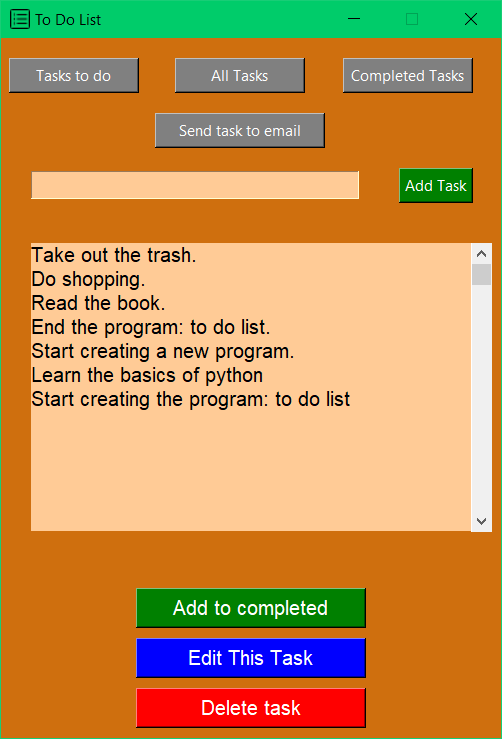
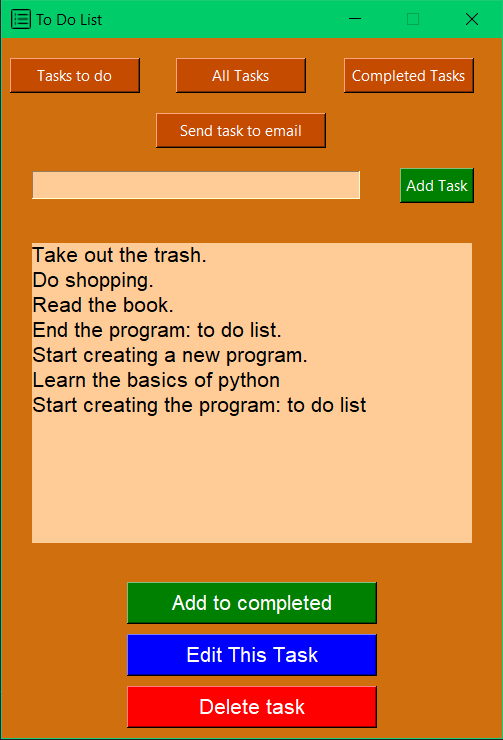
updated photos to README, add button for back to list, change colors

diff --git a/src/app/main.py b/src/app/main.py
@@ -18,9 +18,9 @@ sys.path.append(parent)
 
 
 # BackGround Color
-LIGHT_ORANGE = "#cf6f0e"
-MORE_LIGHT_ORANGE = '#ffcb96'
-# MORE_LIGHT_ORANGE = '#eb9a49'
+APP_BACKGROUND = "#cf6f0e"
+INPUTS_BACKGROUND = '#ffcb96'
+BUTTONS_BACKGROUND = '#c44b00'
 
 
 class ToDoList():
@@ -32,7 +32,7 @@ class ToDoList():
         self.window.resizable(0, 0)
         self.window.title("To Do List")
         self.window.iconbitmap(r'E:/Programing/List_To_Do/To_Do_List/images/icon/List.ico')
-        self.window.configure(background=LIGHT_ORANGE)
+        self.window.configure(background=APP_BACKGROUND)
 
         self.database = self.sqlite3_db()
 
@@ -116,14 +116,14 @@ class ToDoList():
 
     # Creates a frame for options buttons
     def create_options_frame(self):
-        frame = Frame(self.window, height=150, bg=LIGHT_ORANGE)
+        frame = Frame(self.window, height=150, bg=APP_BACKGROUND)
         frame.pack(fill='both', expand=False)
         return frame
 
 
     # Create button for email
     def create_email_button(self):
-        email_button = Button(self.options_frame, width=20, bg='grey', fg='white', text="Send task to email")
+        email_button = Button(self.options_frame, width=20, bg=BUTTONS_BACKGROUND, fg='white', text="Send task to email")
         email_button.grid(row=1, column=1)    
         email_button.bind("<Button>",  lambda e: self.email_window(True))
         return email_button
@@ -131,7 +131,7 @@ class ToDoList():
 
     # Create button for lists
     def create_lists_button(self):
-        lists_button = Button(self.options_frame, width=20, bg='grey', fg='white', text="Back to all tasks")
+        lists_button = Button(self.options_frame, width=20, bg='#a82200', fg='white', text="Back to tasks list")
         lists_button.grid(row=1, column=1)          
         lists_button.bind("<Button>", lambda e: self.email_window(False))
         return lists_button  
@@ -140,22 +140,22 @@ class ToDoList():
 
     # Create button to list of tasks to do 
     def create_button_for_list_of_tasks_to_do(self):
-        button = Button(self.options_frame, width=15, bg='grey', fg='white', text="Tasks to do", command=self.show_tasks_to_do_list)
-        button.grid(row=0, column=0, pady=20, sticky='')
+        button = Button(self.options_frame, width=15, bg=BUTTONS_BACKGROUND, fg='white', text="Tasks to do", command=self.show_tasks_to_do_list)
+        button.grid(row=0, column=0, padx=15, pady=20, sticky='')
         return button
 
 
     # Create button for all task to do list
     def create_button_for_all_task_list(self):
-        button = Button(self.options_frame, width=15, bg='grey', fg='white', text="All Tasks", command=self.show_all_tasks_list)
-        button.grid(row=0, column=1, pady=20, sticky='')
+        button = Button(self.options_frame, width=15, bg=BUTTONS_BACKGROUND, fg='white', text="All Tasks", command=self.show_all_tasks_list)
+        button.grid(row=0, column=1, padx=10, pady=20, sticky='')
         return button
     
 
     # Create button for completed tasks list
     def create_button_for_completed_tasks_list(self):
-        button = Button(self.options_frame, width=15, bg='grey', fg='white', text="Completed Tasks", command=self.show_completed_tasks_list)
-        button.grid(row=0, column=2, pady=20, padx=10, sticky='', columnspan=2)
+        button = Button(self.options_frame, width=15, bg=BUTTONS_BACKGROUND, fg='white', text="Completed Tasks", command=self.show_completed_tasks_list)
+        button.grid(row=0, column=2, pady=20, padx=20, sticky='', columnspan=2)
         return button
 
     
@@ -208,7 +208,7 @@ class ToDoList():
 
     # Create email frame
     def create_email_field(self):
-        frame = Frame(self.tasks_frame, width=450, height=450, bg=LIGHT_ORANGE)
+        frame = Frame(self.tasks_frame, width=450, height=450, bg=APP_BACKGROUND)
         frame.pack()
         return frame
 
@@ -221,6 +221,8 @@ class ToDoList():
         self.list_scrollbar.place_forget()
         self.email_button.grid_forget()
         self.edit_task_button.forget()
+        self.input_field.grid_forget()
+        self.button.grid_forget()
 
 
         # # Display email frame
@@ -230,12 +232,12 @@ class ToDoList():
             self.email_button = self.create_email_button()
             self.lists_button.grid_forget()
 
-            # Show "delete" button
+            # Show buttons lists and input
             self.delete_button.pack(side=BOTTOM, pady=10) 
-            # Show "edit task" button
             self.edit_task_button.pack(side=BOTTOM)
-            # Show "add to complete" button
             self.add_to_completed_button.pack(side=BOTTOM, pady=10)
+            self.input_field.grid(row=2, column=0, columnspan=3, padx=30, pady=20)
+            self.button.grid(row=2, column=3, sticky='', padx=10, pady=20)
 
         else:
             self.email_frame = self.create_email_field() 
@@ -243,25 +245,25 @@ class ToDoList():
 
 
         # Create labels
-        own_email_address_field = Label(self.email_frame, text="Your email address:", bg=LIGHT_ORANGE, fg='white',font='bold')
-        passwd_to_email_field = Label(self.email_frame, text="Password to email:", bg=LIGHT_ORANGE, fg='white',font='bold')
-        email_address_to_send_field = Label(self.email_frame, text ="Recipient Address:", bg=LIGHT_ORANGE, fg='white',font='bold')
-        message_to_send_field = Label(self.email_frame, text ="Message:", bg=LIGHT_ORANGE, fg='white', font='bold')
-        subject_field = Label(self.email_frame, text="Subject:", bg=LIGHT_ORANGE, fg='white', font='bold')
+        own_email_address_field = Label(self.email_frame, text="Your email address:", bg=APP_BACKGROUND, fg='white',font='bold')
+        passwd_to_email_field = Label(self.email_frame, text="Password to email:", bg=APP_BACKGROUND, fg='white',font='bold')
+        email_address_to_send_field = Label(self.email_frame, text ="Recipient Address:", bg=APP_BACKGROUND, fg='white',font='bold')
+        message_to_send_field = Label(self.email_frame, text ="Message:", bg=APP_BACKGROUND, fg='white', font='bold')
+        subject_field = Label(self.email_frame, text="Subject:", bg=APP_BACKGROUND, fg='white', font='bold')
 
         # Create entries
-        own_email_address_entry = Entry(self.email_frame, width=30, bg=MORE_LIGHT_ORANGE)
-        passwd_to_email_entry = Entry(self.email_frame, width=30, bg=MORE_LIGHT_ORANGE)
-        email_address_to_send_entry = Entry(self.email_frame, width=30, bg=MORE_LIGHT_ORANGE)
-        message_to_send_entry = Entry(self.email_frame, width=30, bg=MORE_LIGHT_ORANGE)
-        subject_entry = Entry(self.email_frame, width=30, bg=MORE_LIGHT_ORANGE)
+        own_email_address_entry = Entry(self.email_frame, width=30, bg=INPUTS_BACKGROUND)
+        passwd_to_email_entry = Entry(self.email_frame, width=30, bg=INPUTS_BACKGROUND)
+        email_address_to_send_entry = Entry(self.email_frame, width=30, bg=INPUTS_BACKGROUND)
+        message_to_send_entry = Entry(self.email_frame, width=30, bg=INPUTS_BACKGROUND)
+        subject_entry = Entry(self.email_frame, width=30, bg=INPUTS_BACKGROUND)
 
         # Create send email button
         send_email_button = Button(self.email_frame, width=18, bg='green', fg='white', font='bold', text='Send Email')
         
 
         # Create message label
-        chosen_field = Label(self.email_frame, bg=LIGHT_ORANGE, fg='white', font='bold', text="Which List You Want Send ?")
+        chosen_field = Label(self.email_frame, bg=APP_BACKGROUND, fg='white', font='bold', text="Which List You Want Send ?")
 
 
         # Place labels
@@ -285,9 +287,9 @@ class ToDoList():
         chosen_field1 = IntVar()
         chosen_field2 = IntVar()
         chosen_field3 = IntVar()
-        Radiobutton(self.email_frame, text="To Do",selectcolor=LIGHT_ORANGE, variable=chosen_field1, value=1, bg=LIGHT_ORANGE, fg='white').place(x=50, y=280)
-        Radiobutton(self.email_frame, text="All Tasks",selectcolor=LIGHT_ORANGE, variable=chosen_field2, value=2, bg=LIGHT_ORANGE, fg='white').place(x=150, y=280)
-        Radiobutton(self.email_frame, text="Completed",selectcolor=LIGHT_ORANGE, variable=chosen_field3, value=4, bg=LIGHT_ORANGE, fg='white').place(x=280, y=280)
+        Radiobutton(self.email_frame, text="To Do",selectcolor=APP_BACKGROUND, variable=chosen_field1, value=1, bg=APP_BACKGROUND, fg='white').place(x=50, y=280)
+        Radiobutton(self.email_frame, text="All Tasks",selectcolor=APP_BACKGROUND, variable=chosen_field2, value=2, bg=APP_BACKGROUND, fg='white').place(x=150, y=280)
+        Radiobutton(self.email_frame, text="Completed",selectcolor=APP_BACKGROUND, variable=chosen_field3, value=4, bg=APP_BACKGROUND, fg='white').place(x=280, y=280)
 
         # Place send email button
         send_email_button.place(x=110, y=360)
@@ -297,14 +299,14 @@ class ToDoList():
 
     # Creates a frame for tasks list
     def create_tasks_frame(self):
-        frame = Frame(self.window, width=50, height=550, bg=LIGHT_ORANGE)
+        frame = Frame(self.window, width=50, height=550, bg=APP_BACKGROUND)
         frame.pack(expand=True, fill="both")
         return frame
 
 
     # Create input field
     def create_input_field(self):
-        field = Entry(self.options_frame, width=27, bg=MORE_LIGHT_ORANGE, fg='black', font='Georgia 12')
+        field = Entry(self.options_frame, width=27, bg=INPUTS_BACKGROUND, fg='black', font='Georgia 12')
         field.grid(row=2, column=0, columnspan=3, padx=30, pady=20)
         return field
 
@@ -318,7 +320,7 @@ class ToDoList():
 
     # Create list of tasks
     def create_list_of_tasks(self):
-        list_of_tasks = Listbox(self.tasks_frame, fg="black", bg=MORE_LIGHT_ORANGE, width=52, height=12, bd=0, highlightthickness=0, selectbackground='#5e5555', activestyle='none', font=12)
+        list_of_tasks = Listbox(self.tasks_frame, fg="black", bg=INPUTS_BACKGROUND, width=52, height=12, bd=0, highlightthickness=0, selectbackground='#5e5555', activestyle='none', font=12)
         list_of_tasks.pack(pady=20, padx=30)
         return list_of_tasks
 
@@ -438,14 +440,16 @@ class ToDoList():
 
     # Create update frame
     def create_update_frame(self):
-        update_frame = Frame(self.tasks_frame, width=500, height=80, bg='blue')
+        update_frame = Frame(self.tasks_frame, width=500, height=80, bg=APP_BACKGROUND)
         update_frame.pack(expand=True, fill="both")
         return update_frame
 
 
+
+
+
     # Edit task
     def edit_task(self):
-
         try:
             # Get name of task to update from selected task
             task_to_update = self.list_of_tasks.selection_get()
@@ -476,7 +480,7 @@ class ToDoList():
         db_connector = sqlite3.connect('to_do_list.db')
 
         # Create cursor
-        cursor = db_connector.cursor()   
+        cursor = db_connector.cursor()
 
         # Update database task in table 'task to do'
         cursor.execute(f"""UPDATE task_to_do SET name='{updated_task}' WHERE name='{task_to_update}'""")
@@ -498,8 +502,40 @@ class ToDoList():
         self.list_of_tasks.pack(pady=20, padx=30)
         self.delete_button.pack(side=BOTTOM, pady=10)
         self.edit_task_button.pack(side=BOTTOM)
-        self.add_to_completed_button.pack(side=BOTTOM, pady=10)        
+        self.add_to_completed_button.pack(side=BOTTOM, pady=10)   
+
+        self.tasks_to_do_list_button.grid(row=0, column=0, pady=20, sticky='')
+        self.all_tasks_list_button.grid(row=0, column=1, pady=20, sticky='')
+        self.completed_tasks_list_button.grid(row=0, column=2, pady=20, padx=10, sticky='', columnspan=2)
+        self.email_button.grid(row=1, column=1)
+        self.input_field.grid(row=2, column=0, columnspan=3, padx=30, pady=20)
+        self.button.grid(row=2, column=3, sticky='', padx=10, pady=20)
+
+
         return updated_task
+
+    
+    # Create function for back to lists field
+    def back_to_lists(self, no_updated_task):
+        
+        # Hide update frame
+        self.update_frame.forget()
+
+        # Show list frame and buttons
+        self.list_of_tasks.pack(pady=20, padx=30)
+        self.delete_button.pack(side=BOTTOM, pady=10)
+        self.edit_task_button.pack(side=BOTTOM)
+        self.add_to_completed_button.pack(side=BOTTOM, pady=10)   
+        self.tasks_to_do_list_button.grid(row=0, column=0, pady=20, sticky='')
+        self.all_tasks_list_button.grid(row=0, column=1, pady=20, sticky='')
+        self.completed_tasks_list_button.grid(row=0, column=2, pady=20, padx=10, sticky='', columnspan=2)
+        self.email_button.grid(row=1, column=1)
+        self.input_field.grid(row=2, column=0, columnspan=3, padx=30, pady=20)
+        self.button.grid(row=2, column=3, sticky='', padx=10, pady=20)
+
+        # Insert to list not updated task
+        self.list_of_tasks.insert(END, no_updated_task)
+
 
 
     # Create new entry for updates task
@@ -511,23 +547,38 @@ class ToDoList():
         self.delete_button.forget()
         self.add_to_completed_button.forget()
         self.edit_task_button.pack_forget()
+        self.tasks_to_do_list_button.grid_forget()
+        self.all_tasks_list_button.grid_forget()
+        self.completed_tasks_list_button.grid_forget()
+        self.email_button.grid_forget()
+        self.input_field.grid_forget()
+        self.button.grid_forget()
+
 
 
         # Create label to update task in update form
-        updated_task_label = Label(self.update_frame, text="Update this task:", bg='blue', fg='white', font='bold')
-        updated_task_label.place(x=170, y=50)
+        updated_task_label = Label(self.update_frame, text="Update this task:", bg=APP_BACKGROUND, fg='white', font='Arial 16')
+        updated_task_label.place(x=40, y=40)
 
         # Create entry for update task in update form
-        updated_task_entry = Entry(self.update_frame, width=35, bg='grey', fg='white', font='bold')
+        updated_task_entry = Entry(self.update_frame, width=35, bg=INPUTS_BACKGROUND, fg='black', font='bold')
         updated_task_entry.insert(0, task_to_update)
         updated_task_entry.place(x=40, y=90)
 
+
         # Create button for update task
-        update_button = Button(self.update_frame, text='Update', width=15, bg='green', fg='white', font='bold')
-        update_button.pack(pady=150)
+        update_button = Button(self.update_frame, text='Update task', width=15, bg='green', fg='white', font='bold')
+        update_button.place(x=40, y=150)
         update_button.bind("<Button>", lambda e: self.update_task(task_to_update, updated_task_entry.get()))
+
+        # Create button for back to lists
+        back_button = Button(self.update_frame, text="Back to tasks", width=15,  bg="#a82200", fg="white", font="bold")
+        back_button.place(x=275, y=150)
+        back_button.bind("<Button>", lambda e: self.back_to_lists(task_to_update))
+
         return updated_task_entry
-    
+
+
 
     # Delete task from bd
     def delete_task_in_db(self):
@@ -752,3 +803,5 @@ class ToDoList():
 if __name__ == "__main__":
     TDL = ToDoList()
     TDL.run()
+
+
